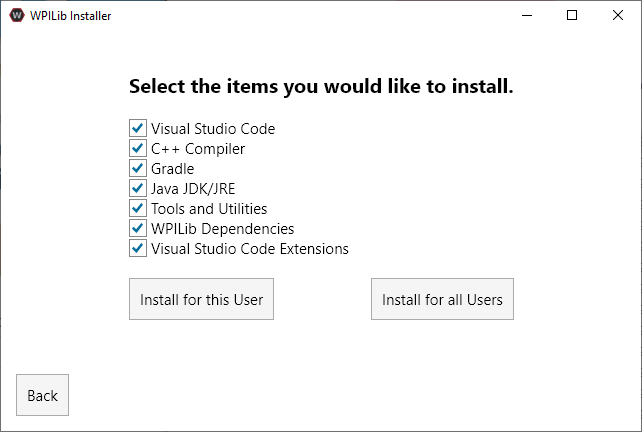
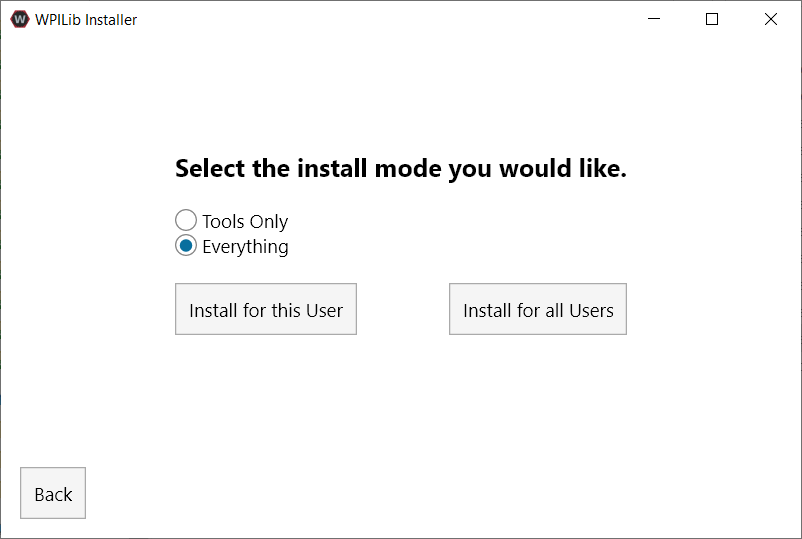
Updates for WPILib 2022 beta 4

diff --git a/source/docs/zero-to-robot/step-2/wpilib-setup.rst b/source/docs/zero-to-robot/step-2/wpilib-setup.rst
@@ -12,6 +12,8 @@ You can download the latest release of the installer from `GitHub <https://githu
 
 .. important:: The minimum supported macOS version is Mojave (10.14.x).
 
+WPILib is designed to install to different folders for different years, so that it is not necessary to uninstall a previous version before installing this year's WPILib.
+
 Extracting the Installer
 ------------------------
 
@@ -59,37 +61,42 @@ Upon opening the installer, you'll be presented with the below screen. Go ahead 
 .. image:: images/wpilib-setup/installer-start.png
    :alt: Start of Installer
 
+.. image:: images/wpilib-setup/installer-options.png
+   :alt: An overview of the installer options
+
+This showcases a list of options included with the WPILib installation.
+
+- :guilabel:`Tools Only` installs just the WPILib tools (Pathweaver, Shuffleboard, RobotBuilder, SysID, Glass, and OutlineViewer) and JDK.
+- :guilabel:`Everything` installs the full development environment (VS Code, extensions, all dependencies), WPILib tools, and JDK.
+
+You will notice two buttons, :guilabel:`Install for this User` and :guilabel:`Install for all Users`. :guilabel:`Install for this User` only installs it on the current user account, and does not require administrator privileges. However, :guilabel:`Install for all Users` installs the tools for all system accounts and *will* require administrator access. :guilabel:`Install for all Users` is not an option for macOS and Linux.
+
+.. note:: If you select Install for all Users, Windows will prompt for administrator access through UAC during installation.
+
+Select the option that is appropriate for you, and you'll presented with the following installation screen.
+
 This next screen involves downloading VS Code. Unfortunately, due to licensing reasons, VS Code can not be bundled with the installer.
 
 .. image:: images/wpilib-setup/installer-vscode-download.png
    :alt: Overview of VS Code download options
 
-- Download VS Code for Single Install
+- Download for this computer only
 
   - This downloads VS Code only for the current platform, which is also the smallest download.
 
-- Skip installing VS Code
+- Skip and don't use VS Code
 
   - Skips installing VS Code. Useful for advanced installations or configurations. Generally not recommended.
 
-- Use Downloaded Offline Installer
+- Select existing VS Code zip for offline install on this computer
 
   - Selecting this option will bring up a prompt allowing you to select a pre-existing zip file of VS Code that has been downloaded by the installer previously. This option does **not** let you select an already installed copy of VS Code on your machine.
 
-- Download VS Code for Offline Install
+- Create VS Code zip to share with other computers/OSes for offline install
 
   - This option downloads and saves a copy of VS Code for all platforms, which is useful for sharing the copy of the installer.
 
 Go ahead and select :guilabel:`Download VS Code for Single Install`. This will begin the download process and can take a bit depending on internet connectivity (it's ~100MB). Once the download is done, select :guilabel:`Next`. You should be presented with a screen that looks similar to the one below.
-
-.. image:: images/wpilib-setup/installer-options.png
-   :alt: An overview of the installer options
-
-This showcases a list of options included with the WPILib installation. It's advised to just leave the default options selected.
-
-You will notice two buttons, :guilabel:`Install for this User` and :guilabel:`Install for all Users`. :guilabel:`Install for this User` only installs it on the current user account, and does not require administrator privileges. However, :guilabel:`Install for all Users` installs the tools for all system accounts and *will* require administrator access. :guilabel:`Install for all Users` is not an option for macOS and Linux.
-
-Select the option that is appropriate for you, and you'll presented with the following installation screen.
 
 .. image:: images/wpilib-setup/installer-installing.png
    :alt: Installer progress bar
@@ -147,7 +154,7 @@ The Offline Installer installs the following components:
 
 - **Java JDK/JRE** - A specific version of the Java JDK/JRE that is used to build Java robot code and to run any of the Java based Tools (Dashboards, etc.). This exists side by side with any existing JDK installs and does not overwrite the JAVA_HOME variable
 
-- **WPILib Tools** - SmartDashboard, Shuffleboard, RobotBuilder, Outline Viewer, Pathweaver, Glass
+- **WPILib Tools** - SmartDashboard, Shuffleboard, RobotBuilder, Outline Viewer, Pathweaver, Glass, SysID
 
 - **WPILib Dependencies** - OpenCV, etc.
 

diff --git a/source/docs/yearly-overview/yearly-changelog.rst b/source/docs/yearly-overview/yearly-changelog.rst
@@ -41,6 +41,7 @@ General Library
 -  ``getInstance()`` functions in ``CameraServer``, ``DriverStation``, ``LiveWindow``, ``Preferences``, ``SendableRegistry``, have been deprecated and replaced with static functions
 - ``Timer::HasPeriodPassed()`` and ``Timer.hasPeriodPassed()`` have been deprecated. Use ``AdvanceIfElapsed()`` instead
 - Several new classes have been added to enable simpler access to ``Counter``: ``ExternalDirectionCounter`` (`Java <https://first.wpi.edu/wpilib/allwpilib/docs/development/java/edu/wpi/first/wpilibj/counter/ExternalDirectionCounter.html>`__/ `C++ <https://first.wpi.edu/wpilib/allwpilib/docs/development/cpp/classfrc_1_1_external_direction_counter.html>`__), ``Tachometer`` (`Java <https://first.wpi.edu/wpilib/allwpilib/docs/development/java/edu/wpi/first/wpilibj/counter/Tachometer.html>`__/ `C++ <https://first.wpi.edu/wpilib/allwpilib/docs/development/cpp/classfrc_1_1_tachometer.html>`__), and ``UpDownCounter`` (`Java <https://first.wpi.edu/wpilib/allwpilib/docs/development/java/edu/wpi/first/wpilibj/counter/UpDownCounter.html>`__/ `C++ <https://first.wpi.edu/wpilib/allwpilib/docs/development/cpp/classfrc_1_1_up_down_counter.html>`__)
+- ``DutyCycleEncoder``: add support for setting duty cycle range
 
 Breaking Changes
 ^^^^^^^^^^^^^^^^
@@ -156,7 +157,7 @@ PathWeaver
 GradleRIO
 ---------
 
-- Gradle has been updated to version 7.2
+- Gradle has been updated to version 7.3.2
 - Internals of GradleRIO have been updated to be easier to read, more maintainable and easier for advanced teams to modify.
 - Deployment is more customizable
 
@@ -175,10 +176,12 @@ OutlineViewer has been updated to be C++ based using the ImGui library. This mak
 WPILib All in One Installer
 ---------------------------
 
-- Visual Studio Code has been updated to 1.62
+- Simplified installation choices
+- Visual Studio Code has been updated to 1.63.2
 - Updated Java and C++ language extensions
 - Fix Linux desktop icon permissions
 - Add year to tools shortcuts name
+- Handle issues with JDK running and UAC cancelled
 
 Visual Studio Code Extension
 ----------------------------
